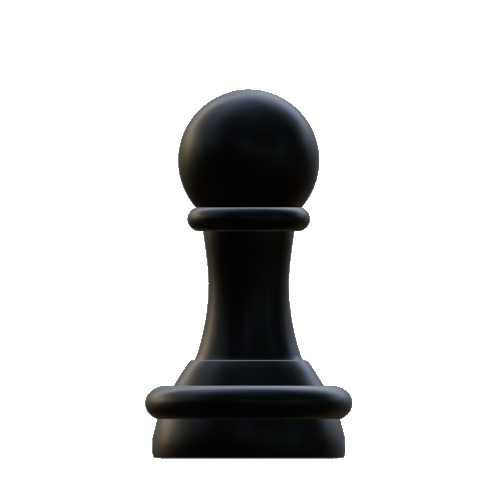
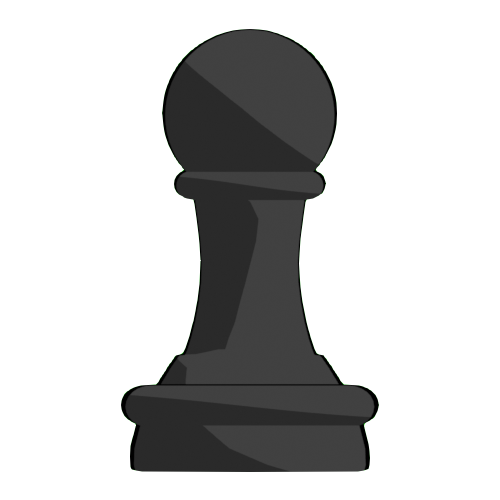
Updated art style of the pieces for better visibility, created Rook asset.

Changed region(s): [[0.24, 0.06, 0.78, 0.96]]

diff --git a/src/screens/game_screen.py b/src/screens/game_screen.py
@@ -33,10 +33,12 @@ PIECES = {
 }
 
 PIECE_WHITE = {
+    PieceType.ROOK: pygame.image.load("assets/Pieces/RookWhite.png"),
     PieceType.PAWN: pygame.image.load("assets/Pieces/PawnWhite.png")
 }
 
 PIECE_BLACK = {
+    PieceType.ROOK: pygame.image.load("assets/Pieces/RookBlack.png"),
     PieceType.PAWN: pygame.image.load("assets/Pieces/PawnBlack.png")
 }
 
@@ -86,7 +88,7 @@ class GameScreen(BaseScreen):
         screen_w, screen_h = surface.get_size()
 
         # Board sizing: fit to ~60% of screen height, left centered
-        board_margin = 300
+        board_margin = 200
         self._square_size = (screen_h - board_margin * 2) // 8
         self._board_size = self._square_size * 8
         self._border_size = self._board_size + (BOARD_BORDER_P * 2)
@@ -140,11 +142,11 @@ class GameScreen(BaseScreen):
         surfaces = {}
         for piece_type in PieceType:
             for color in Color:
-                if piece_type == PieceType.PAWN:
+                if piece_type == PieceType.PAWN or piece_type == PieceType.ROOK:
                     piece = (
-                        pygame.transform.scale(PIECE_WHITE[PieceType.PAWN].convert_alpha(), (sq,sq))
+                        pygame.transform.scale(PIECE_WHITE[piece_type].convert_alpha(), (sq,sq))
                         if color == Color.WHITE
-                        else pygame.transform.scale(PIECE_BLACK[PieceType.PAWN].convert_alpha(), (sq,sq))
+                        else pygame.transform.scale(PIECE_BLACK[piece_type].convert_alpha(), (sq,sq))
                     )
                     piece_surf = pygame.Surface((sq,sq), pygame.SRCALPHA)
                     piece_surf.blit(piece, piece_surf.get_rect(center=(sq // 2, sq // 2)))
@@ -177,7 +179,7 @@ class GameScreen(BaseScreen):
                     )
                     letter_rect = letter_surf.get_rect(center=(sq // 2, sq // 2))
                     piece_surf.blit(letter_surf, letter_rect)
-
+        
                 surfaces[(piece_type, color)] = piece_surf
 
         return surfaces
